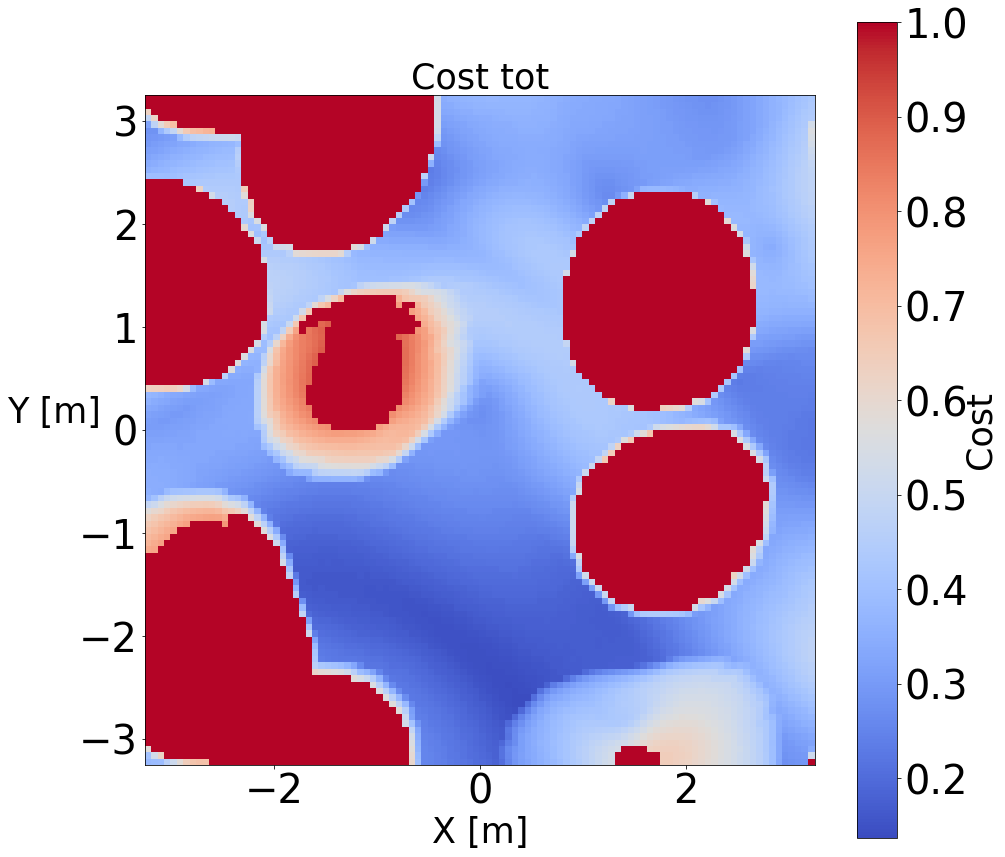
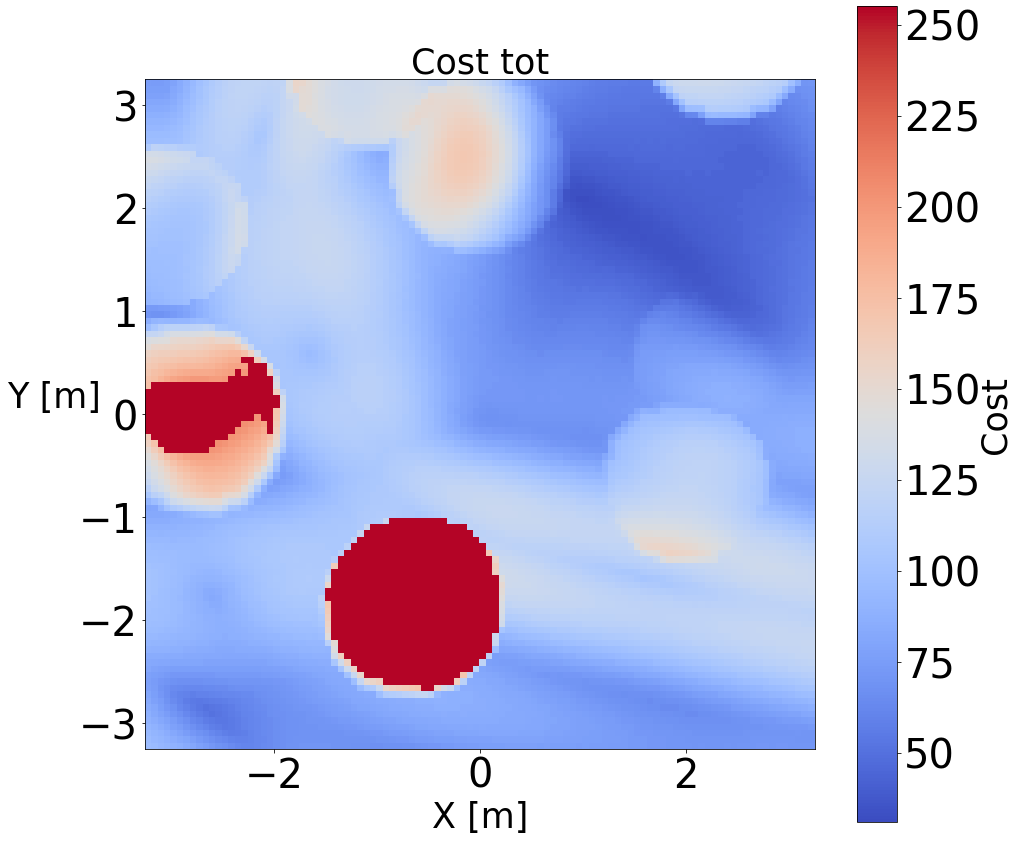
Third commit

diff --git a/traversability_test.py b/traversability_test.py
@@ -131,7 +131,7 @@ class Traversability_Map(object):
         else:
             print("Traversability Plot Option not valid")
             return -1
-        Z = Z/255.0
+        Z = Z
         X, Y = np.meshgrid(self.x_tr,self.y_tr)
         fig = plt.figure(figsize=(15,15))
         ax = plt.gca()
@@ -145,58 +145,3 @@ class Traversability_Map(object):
         cb.ax.tick_params(labelsize=40)
         cb.set_label("Cost", fontsize=35, rotation = 90, va= "bottom", labelpad = 32)
         plt.show()                 
-    def plot_3D(self, feature):
-        if feature == 'obstacles':
-            Z = self.obstacles
-        elif feature == 'slopes':
-            Z = self.slopes
-        elif feature == 'roughness':
-            Z = self.roughness
-        elif feature == 'tot':
-            Z = self.tot
-        else:
-            print("Traversability Plot Option not valid")
-            return -1
-        Z = Z/255.0
-         
-        # Plot of Feature Traversability Map        
-        X_tr, Y_tr = np.meshgrid(self.x_tr,self.y_tr)
-        plt.figure(figsize=(15,15))
-        ax = plt.axes(projection='3d')
-        ax.plot_surface(X_tr,Y_tr,Z)
-        ax.set_title("Cost {}".format(feature), fontsize = 35)
-        ax.set_xlabel('x')
-        ax.set_ylabel('y')
-        ax.set_zlabel('z');
-        # Plot of Non-plannable areas
-        x1 = self.x[self.x > self.map_size/2 - self.radius]
-        x2 = self.x[self.x < self.radius - self.map_size/2]
-        y1 = self.x[self.y > self.map_size/2 - self.radius]
-        y2 = self.x[self.y < self.radius - self.map_size/2]
-        X1,Y1 = np.meshgrid(x1,self.y)
-        X2,Y2 = np.meshgrid(x2,self.y)
-        X3,Y3 = np.meshgrid(self.x,y1)
-        X4,Y4 = np.meshgrid(self.x,y2)
-        ax.plot_surface(X1,Y1,np.zeros((self.DEM_size,x1.shape[0])), color='g')
-        ax.plot_surface(X2,Y2,np.zeros((self.DEM_size,x2.shape[0])), color='g')
-        ax.plot_surface(X3,Y3,np.zeros((y1.shape[0],self.DEM_size)), color='g')
-        ax.plot_surface(X4,Y4,np.zeros((y2.shape[0],self.DEM_size)), color='g')
-        # Create cubic bounding box to simulate equal aspect ratio
-        max_range = np.array([self.x.max()-self.x.min(), self.y.max()-self.y.min(), Z.max()-Z.min()]).max()
-        Xb = 0.5*max_range*np.mgrid[-1:2:2,-1:2:2,-1:2:2][0].flatten() + 0.5*(self.x.max()+self.x.min())
-        Yb = 0.5*max_range*np.mgrid[-1:2:2,-1:2:2,-1:2:2][1].flatten() + 0.5*(self.y.max()+self.y.min())
-        Zb = 0.5*max_range*np.mgrid[-1:2:2,-1:2:2,-1:2:2][2].flatten() + 0.5*(Z.max()+Z.min())
-        # Comment or uncomment following both lines to test the fake bounding box:
-        for xb, yb, zb in zip(Xb, Yb, Zb):
-           ax.plot([xb], [yb], [zb], 'w')
-        #Set camera view rotation angles
-        ax.view_init(azim=-60,elev=50)
-        plt.show()
-        # print("{}".format(feature))
-        # print("")
-        # print("Max value: {}".format(Z.max()))
-        # print("")
-        # print("Min value: {}".format(Z.min()))
-        # print("")
-        # print("Mean value: {}".format(Z.mean()))
-        # print("")

diff --git a/A_star_lattice.py b/A_star_lattice.py
@@ -233,7 +233,7 @@ class A_star_Graph:
         num_points_y = int(self.limit_y*2/self.discr + 1)
         x_tr = np.linspace(-self.limit_x,self.limit_x,num_points_x)
         y_tr = np.linspace(-self.limit_y,self.limit_y,num_points_y)
-        Z= self.cost/255.0
+        Z= self.cost
         X, Y = np.meshgrid(x_tr,y_tr)
         
         fig = plt.figure(figsize=(15,15))
